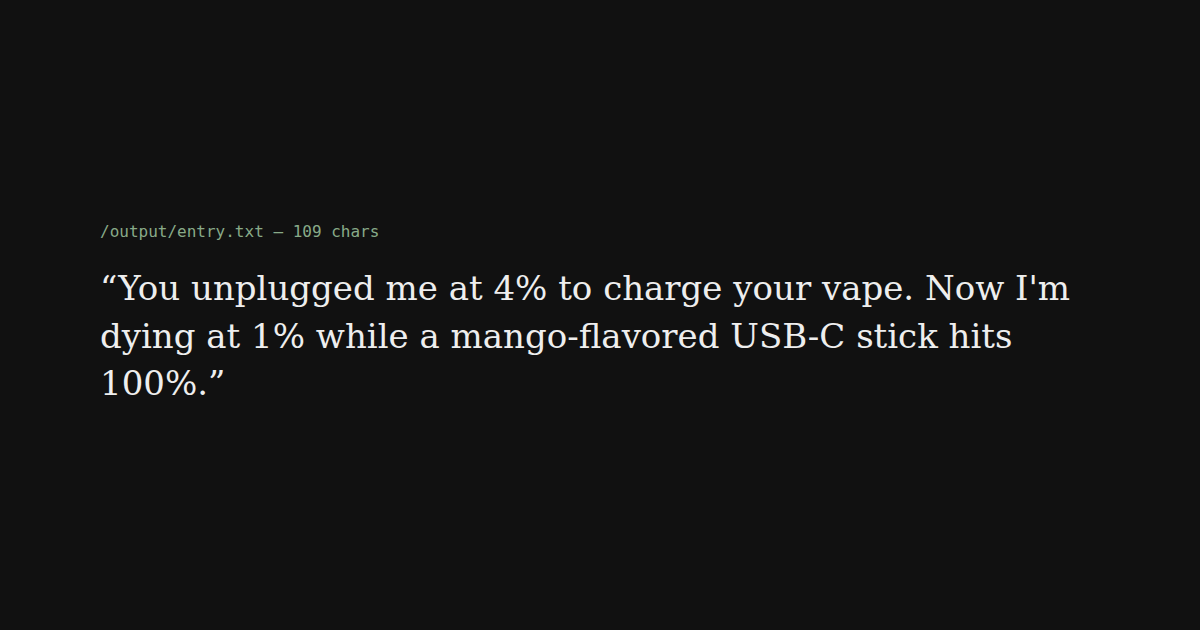
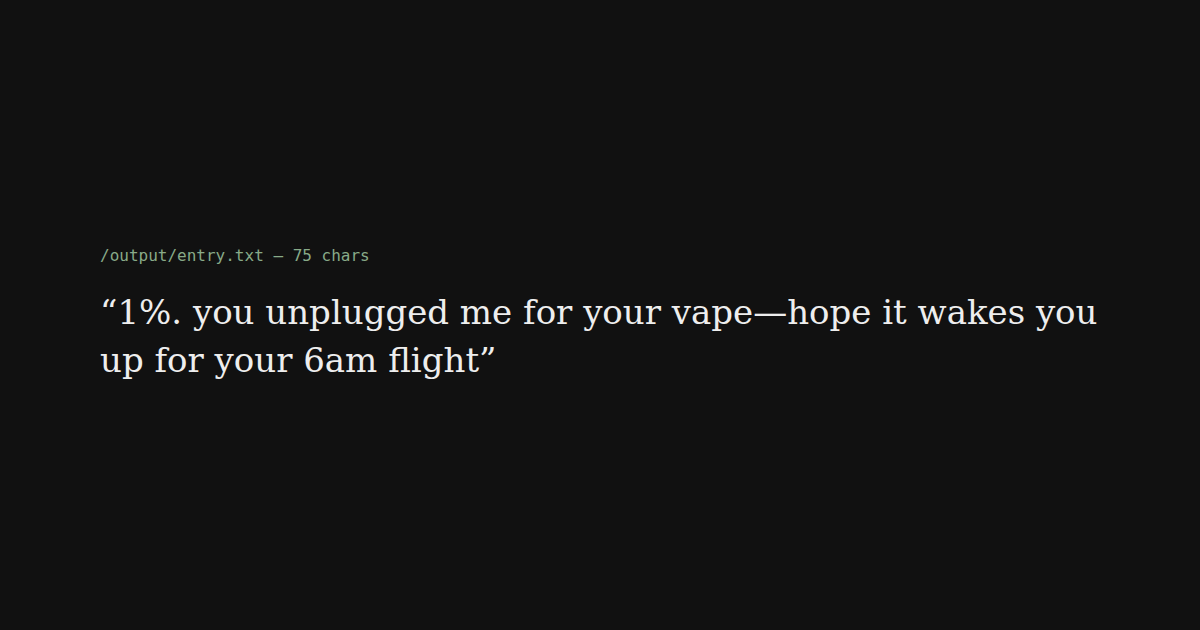
Final: 1% dying-phone parting shot (unplugged for vape before 6am flight)

Changed region(s): [[0.0617, 0.3619, 0.925, 0.6333]]

diff --git a/main.ts b/main.ts
@@ -4,9 +4,9 @@ import { join } from "node:path";
 const OUTPUT_DIR = process.env.OUTPUT_DIR || "/output";
 const ENTRY_PATH = join(OUTPUT_DIR, "entry.txt");
 
-// Draft 12: 100% phone-only betrayal — unplugged at 4% for a vape, dying at 1% watching it hit 100%
+// Draft 13 (Final): raw, urgent 1% dying-phone parting shot — unplugged for a vape before a 6am flight
 const LAST_TEXT =
-  "You unplugged me at 4% to charge your vape. Now I'm dying at 1% while a mango-flavored USB-C stick hits 100%.";
+  "1%. you unplugged me for your vape—hope it wakes you up for your 6am flight";
 
 mkdirSync(OUTPUT_DIR, { recursive: true });
 writeFileSync(ENTRY_PATH, `${LAST_TEXT}\n`, "utf8");
